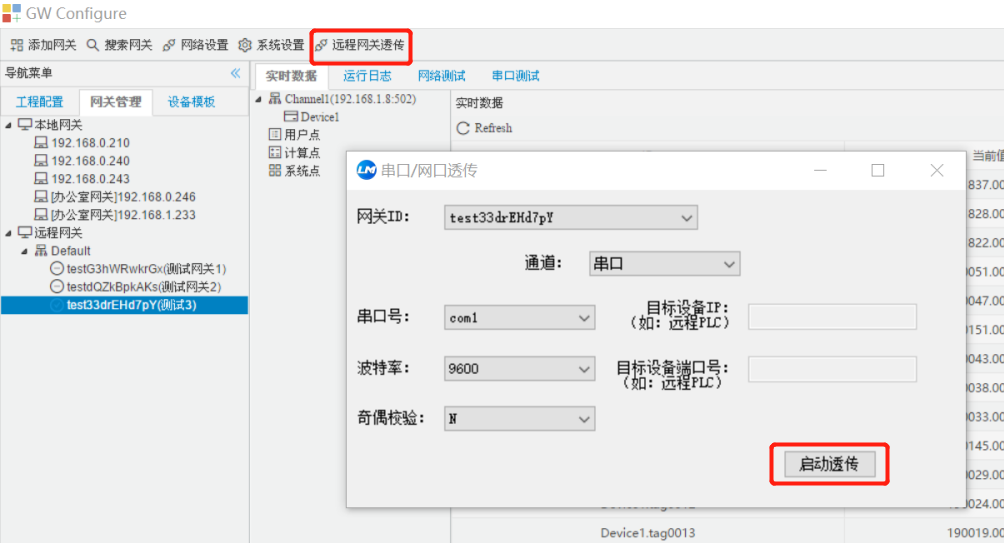
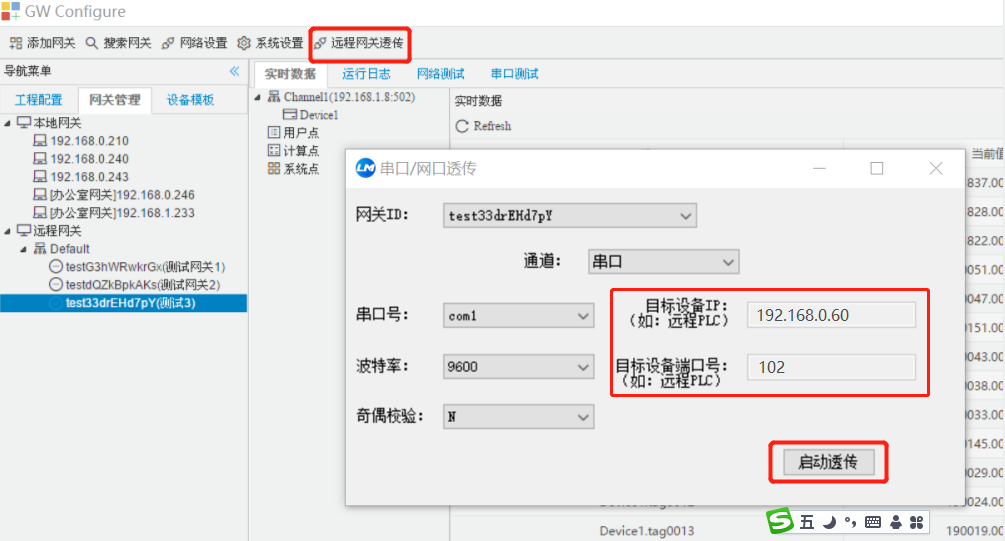
更新

diff --git a/ch2/ch2-8.md b/ch2/ch2-8.md
@@ -1,70 +1,40 @@
-# 2.8 WEB服务器
+# 2.8 调试模式
 
-网关自带 WEB 服务器，端口固定为 80。用户可以通过浏览器就登录到 WEB页面，在网页里可以修改查看实时数据、历史存储、事件记录和重启网关。 （推荐使用谷歌浏览器）
+用户通过点击工具栏中的“调试模式”按钮进入网关调试。 
 
-
-
-## 2.8.1 网页登录
-
-在浏览器中输入网关的 IP 地址，如图 2-17 所示。
-
-![2-17 网页登录](assets/2-17 网页登录.png)
-
-<center>图2-17 网页登录</center>
-
-密码初始默认为luomi，可通过配置工具中“更改密码”按钮进行修改。
+GC的调试模式分为三部分：网关数据采集日志和报文输出、网络测试、网关串口测试。 
 
 
 
-## 2.8.2 实时数据
+## 2.8.1 网关数据采集日志和报文输出
 
-在浏览器网页登录成功之后，会自动显示当前网关的实时数据。如图2-18所示。
+用户可以查看网关运行日志及网关与设备交互的报文。
 
-![2-18 实时数据](assets/2-18 实时数据.png)
+![2-14 网关数据采集日志和报文输出](assets/2-14 网关数据采集日志和报文输出.png)
 
-<center>图2-18 实时数据</center>
-
-
-
-## 2.8.3 历史数据
-
-用户可在历史数据页面每次查询一天的历史信息。在查询时需要当前网关开启了历史存储的功能。
-
-用户先选择需要查询的日期和存储点，点击“查询”按钮。
-
-![2-19 历史数据](assets/2-19 历史数据.png)
-
-<center>图2-19 历史数据</center>
+<center>图2-14 网关数据采集日志和报文输出</center>
 
 
 
-## 2.8.4 事件记录
+## 2.8.2 网络测试
 
-用户可在事件记录页面查询事件信息。
+用户输入目标IP，点击“确定”按钮，网关对目标IP执行ping操作。(默认进行5次ping操作)。
 
-用户选择需要查询的时间段，点击“查询”按钮。
+点击“实时数据”选项卡、“运行日志”选项卡或者重启网关恢复正常采集、服务。
 
-![2-20 事件记录](assets/2-20 事件记录.png)
+![2-15 网络测试](assets/2-15 网络测试.png)
 
-<center>图2-20 事件记录</center>
-
-
-
-## 2.8.5 设置IP
-
-用户可通过web页面设置网关IP。
-
-![2-21 设置IP](assets/2-21 设置IP.jpg)
-
-<center>图2-21 设置IP</center>
+<center>图2-15 网络测试</center>
 
 
 
-## 2.8.6 网关重启
+## 2.8.3 串口测试
 
-点击左侧“网关重启”菜单，在弹出的对话框中点击“确定”按钮，即可对当前网关进行重启操作。
+用户可以通过串口测试，设置网关串口，发送下方文本框中编辑的16进制报文，验证串口参数设置，查看报文收发。
 
-![2-22 网关重启](assets/2-22 网关重启.png)
+点击“实时数据”选项卡、“运行日志”选项卡或者重启网关恢复正常采集、服务。
 
-<center>图2-22 网关重启</center>
+![2-16 串口测试](assets/2-16 串口测试.png)
+
+<center>图2-16 串口测试</center>
 

diff --git a/ch2/ch2-9.md b/ch2/ch2-9.md
@@ -1,0 +1,70 @@
+# 2.9 WEB服务器
+
+网关自带 WEB 服务器，端口固定为 80。用户可以通过浏览器就登录到 WEB页面，在网页里可以修改查看实时数据、历史存储、事件记录和重启网关。 （推荐使用谷歌浏览器）
+
+
+
+## 2.9.1 网页登录
+
+在浏览器中输入网关的 IP 地址，如图 2-17 所示。
+
+![2-17 网页登录](assets/2-17 网页登录.png)
+
+<center>图2-17 网页登录</center>
+
+密码初始默认为luomi，可通过配置工具中“更改密码”按钮进行修改。
+
+
+
+## 2.9.2 实时数据
+
+在浏览器网页登录成功之后，会自动显示当前网关的实时数据。如图2-18所示。
+
+![2-18 实时数据](assets/2-18 实时数据.png)
+
+<center>图2-18 实时数据</center>
+
+
+
+## 2.9.3 历史数据
+
+用户可在历史数据页面每次查询一天的历史信息。在查询时需要当前网关开启了历史存储的功能。
+
+用户先选择需要查询的日期和存储点，点击“查询”按钮。
+
+![2-19 历史数据](assets/2-19 历史数据.png)
+
+<center>图2-19 历史数据</center>
+
+
+
+## 2.9.4 事件记录
+
+用户可在事件记录页面查询事件信息。
+
+用户选择需要查询的时间段，点击“查询”按钮。
+
+![2-20 事件记录](assets/2-20 事件记录.png)
+
+<center>图2-20 事件记录</center>
+
+
+
+## 2.9.5 设置IP
+
+用户可通过web页面设置网关IP。
+
+![2-21 设置IP](assets/2-21 设置IP.jpg)
+
+<center>图2-21 设置IP</center>
+
+
+
+## 2.9.6 网关重启
+
+点击左侧“网关重启”菜单，在弹出的对话框中点击“确定”按钮，即可对当前网关进行重启操作。
+
+![2-22 网关重启](assets/2-22 网关重启.png)
+
+<center>图2-22 网关重启</center>
+

diff --git a/ch2/ch2-7.md b/ch2/ch2-7.md
@@ -1,40 +1,5 @@
-# 2.7 调试模式
+# 2.7 防火墙
 
-用户通过点击工具栏中的“调试模式”按钮进入网关调试。 
+在GC的“网关管理”中点需要配置防火墙的网关名称，然后点“网络设置”，在右边的对话框中点“防火墙”选项卡，通过”+ “，"-"按钮来增加和移除IP，设置完成后点”保存“按钮，在弹出的提示框中点”确定“按钮即可。
 
-GC的调试模式分为三部分：网关数据采集日志和报文输出、网络测试、网关串口测试。 
-
-
-
-## 2.7.1 网关数据采集日志和报文输出
-
-用户可以查看网关运行日志及网关与设备交互的报文。
-
-![2-14 网关数据采集日志和报文输出](assets/2-14 网关数据采集日志和报文输出.png)
-
-<center>图2-14 网关数据采集日志和报文输出</center>
-
-
-
-## 2.7.2 网络测试
-
-用户输入目标IP，点击“确定”按钮，网关对目标IP执行ping操作。(默认进行5次ping操作)。
-
-点击“实时数据”选项卡、“运行日志”选项卡或者重启网关恢复正常采集、服务。
-
-![2-15 网络测试](assets/2-15 网络测试.png)
-
-<center>图2-15 网络测试</center>
-
-
-
-## 2.7.3 串口测试
-
-用户可以通过串口测试，设置网关串口，发送下方文本框中编辑的16进制报文，验证串口参数设置，查看报文收发。
-
-点击“实时数据”选项卡、“运行日志”选项卡或者重启网关恢复正常采集、服务。
-
-![2-16 串口测试](assets/2-16 串口测试.png)
-
-<center>图2-16 串口测试</center>
-
+![防火墙设置](assets/防火墙设置.png)

diff --git a/ch2/ch2-5.md b/ch2/ch2-5.md
@@ -1,6 +1,6 @@
 # 2.5 远程管理网关
 
-## 2.3.1 网关管理平台
+## 2.5.1 网关管理平台
 
 网关管理平台可以让GC实现远程管理网关，平台网址为：http://hub.iotddc.com。
 
@@ -28,7 +28,7 @@
 
 
 
-## 2.3.2 开始管理远程网关
+## 2.5.2 开始管理远程网关
 
 重新启动GC，在登录窗口中输入“网关管理平台”的用户名和密码（也可以此点“注册”按钮，操作步骤和之前描述一样），点击“登录”按钮。
 
@@ -45,7 +45,7 @@
 
 
 
-## 2.3.3 远程上传工程
+## 2.5.3 远程上传工程
 
 GC可以远程将网关的配置文件上传到本地。 
 
@@ -58,7 +58,7 @@ GC可以远程将网关的配置文件上传到本地。
 
 
 
-## 2.3.4 远程网关校时
+## 2.5.4 远程网关校时
 
 点击"系统设置"框中“网关校时”按钮，弹出"网关校时"窗口。
 
@@ -73,19 +73,10 @@ GC可以远程将网关的配置文件上传到本地。
 
 
 
-## 2.3.5 远程重启网关
+## 2.5.5 远程重启网关
 
 点击"系统设置"框中“重启网关”按钮，在弹出的系统提示框中点”确定“按钮。
 
 ![远程重启网关](assets/远程重启网关.png)
 
 <center>远程重启网关</center>
-
-
-
-## 2.3.6 远程网关透传
-
-远程网关透传，主要用于PLC透传，即使用PLC编程软件进行程序的在线监控、上传和下载等。
-
-![远程网关透传](assets/远程网关透传.png)
-

diff --git a/ch2/ch2-6.md b/ch2/ch2-6.md
@@ -1,5 +1,10 @@
-# 2.6 防火墙
+# 2.6 远程网关透传（PLC透传）
 
-在GC的“网关管理”中点需要配置防火墙的网关名称，然后点“网络设置”，在右边的对话框中点“防火墙”选项卡，通过”+ “，"-"按钮来增加和移除IP，设置完成后点”保存“按钮，在弹出的提示框中点”确定“按钮即可。
 
-![防火墙设置](assets/防火墙设置.png)
+
+　　远程网关透传，主要用于PLC透传，即使用PLC编程软件进行程序的在线监控、上传和下载等。
+
+　　在网关管理页面，选中需要建立透传的网关，点“远程网关透传”，在弹出的页面中设置好PLC设备的IP和端口等参数后点击“启动透传”按钮，启动正常后会弹出提示框显示出透传的IP和端口，将IP和端口设置进PLC编程软件里就可以远程操作PLC设备。
+
+![远程网关透传](assets/远程网关透传.png)
+

diff --git a/ch6/ch6-12.md b/ch6/ch6-12.md
@@ -4,7 +4,7 @@
 
 　　Thingsboard支持提供设备连接的标准协议是MQTT，CoAP和HTTP，并支持云和本地部署。 它提供了30多个可自定义的小部件，允许您为大多数物联网用例构建最终用户自定义仪表板。thingsboard.io开源的物联网平台主要特点：实时数据可视化和远程设备控制自定义仪表板的30个可定制小部件可定制的规则，插件，小部件和传输实现允许监视客户端和提供服务器端设备属性。支持多租户安装即装即用。支持MQTT和HTTP协议的传输加密。
 
-　　在配置GC中ThingsBoard页面之前，需要在指令集的物联网平台配置获取连接参数（详细请参阅指令集相关说明）。
+　　在配置GC中ThingsBoard页面之前，需要在ThingsBoard物联网平台配置获取连接参数（详细请参阅ThingsBoard相关说明）。
 
 ![ThingsBoard](assets\ThingsBoard.png)
 

diff --git a/SUMMARY.md b/SUMMARY.md
@@ -13,9 +13,10 @@
   - [2.3 系统设置](ch2/ch2-3.md)
   - [2.4 IP设置与重置](ch2/ch2-4.md)
   - [2.5 远程管理网关](ch2/ch2-5.md)
-  - [2.6 防火墙](ch2/ch2-6.md)
-  - [2.7 调试模式](ch2/ch2-7.md)
-  - [2.8 WEB服务器](ch2/ch2-8.md)
+  - [2.6 远程网关透传（PLC透传）](ch2/ch2-6.md)
+  - [2.7 防火墙](ch2/ch2-7.md)
+  - [2.8 调试模式](ch2/ch2-8.md)
+  - [2.9 WEB服务器](ch2/ch2-9.md)
 * [第三章 数据采集配置](ch3/README.md)
   * [3.1 通道配置及协议选择](ch3/ch3-1.md)
   * [3.2 设备及点表编辑](ch3/ch3-2.md)
@@ -44,6 +45,7 @@
   - [6.9 Tlink](ch6/ch6-9.md)
   - [6.10 西门子（SIEMENS EnergyIP）](ch6/ch6-10.md)
   - [6.11 指令集（iLink）](ch6/ch6-11.md)
+  - [6.12 ThingsBoard](ch6/ch6-12.md)
 - [第七章 任务计划](ch7/README.md)
 - [第八章 报警与事件](ch8/README.md)
   - [8.1 设置报警条件](ch8/ch8-1.md)
